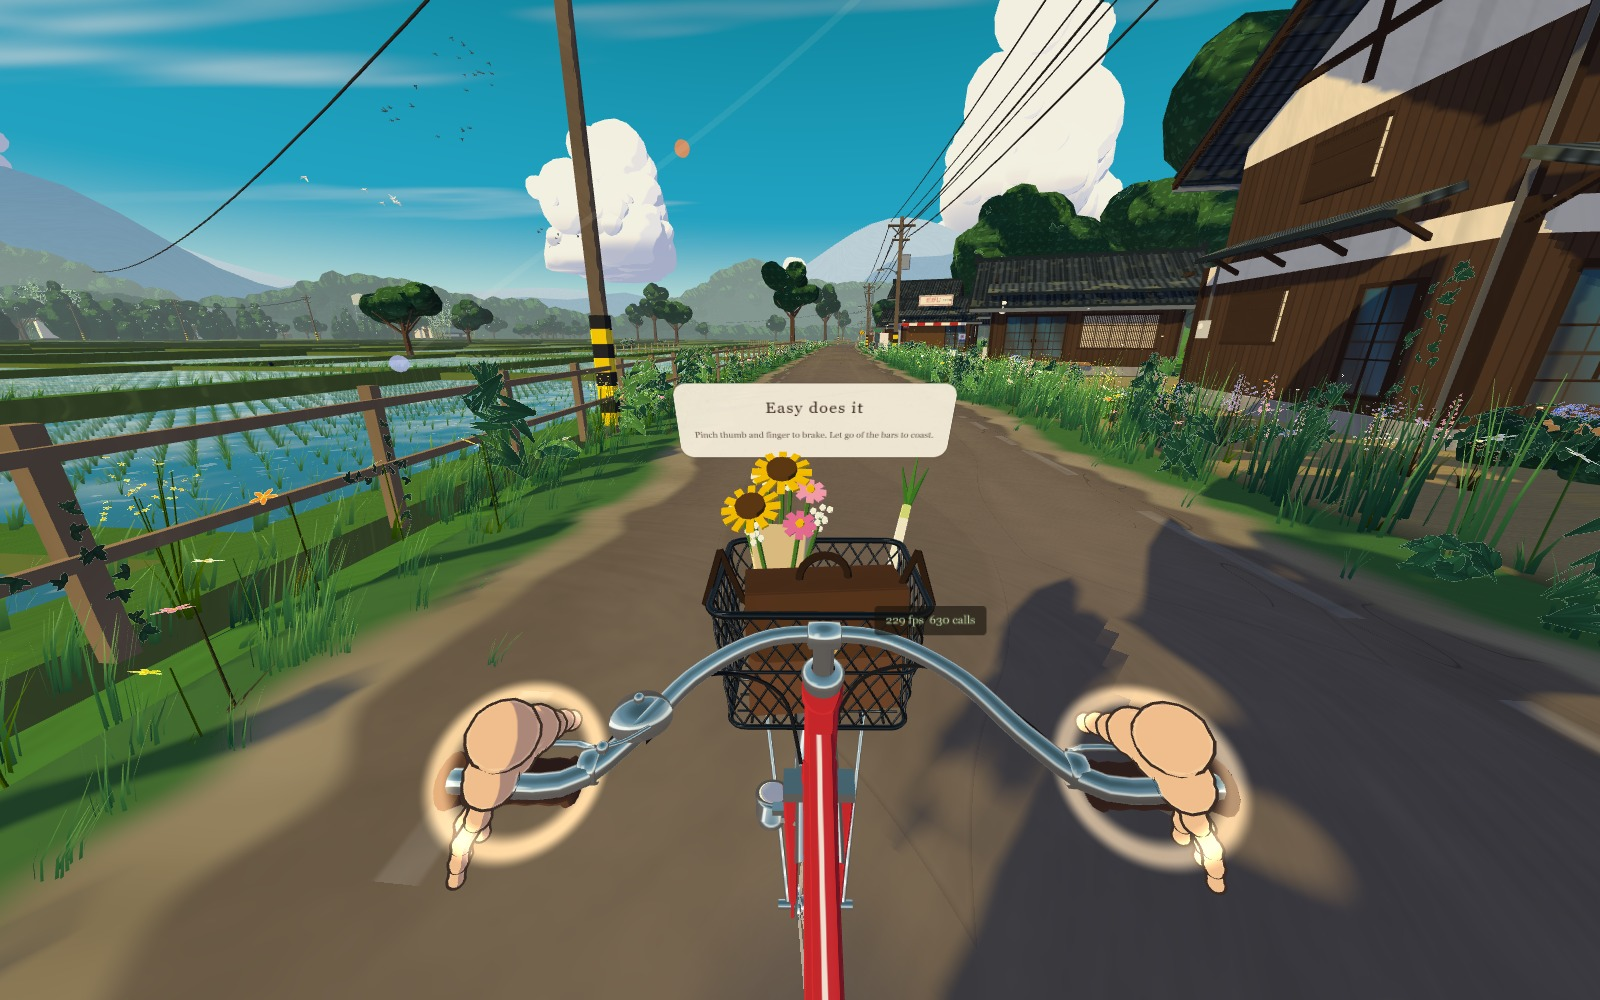
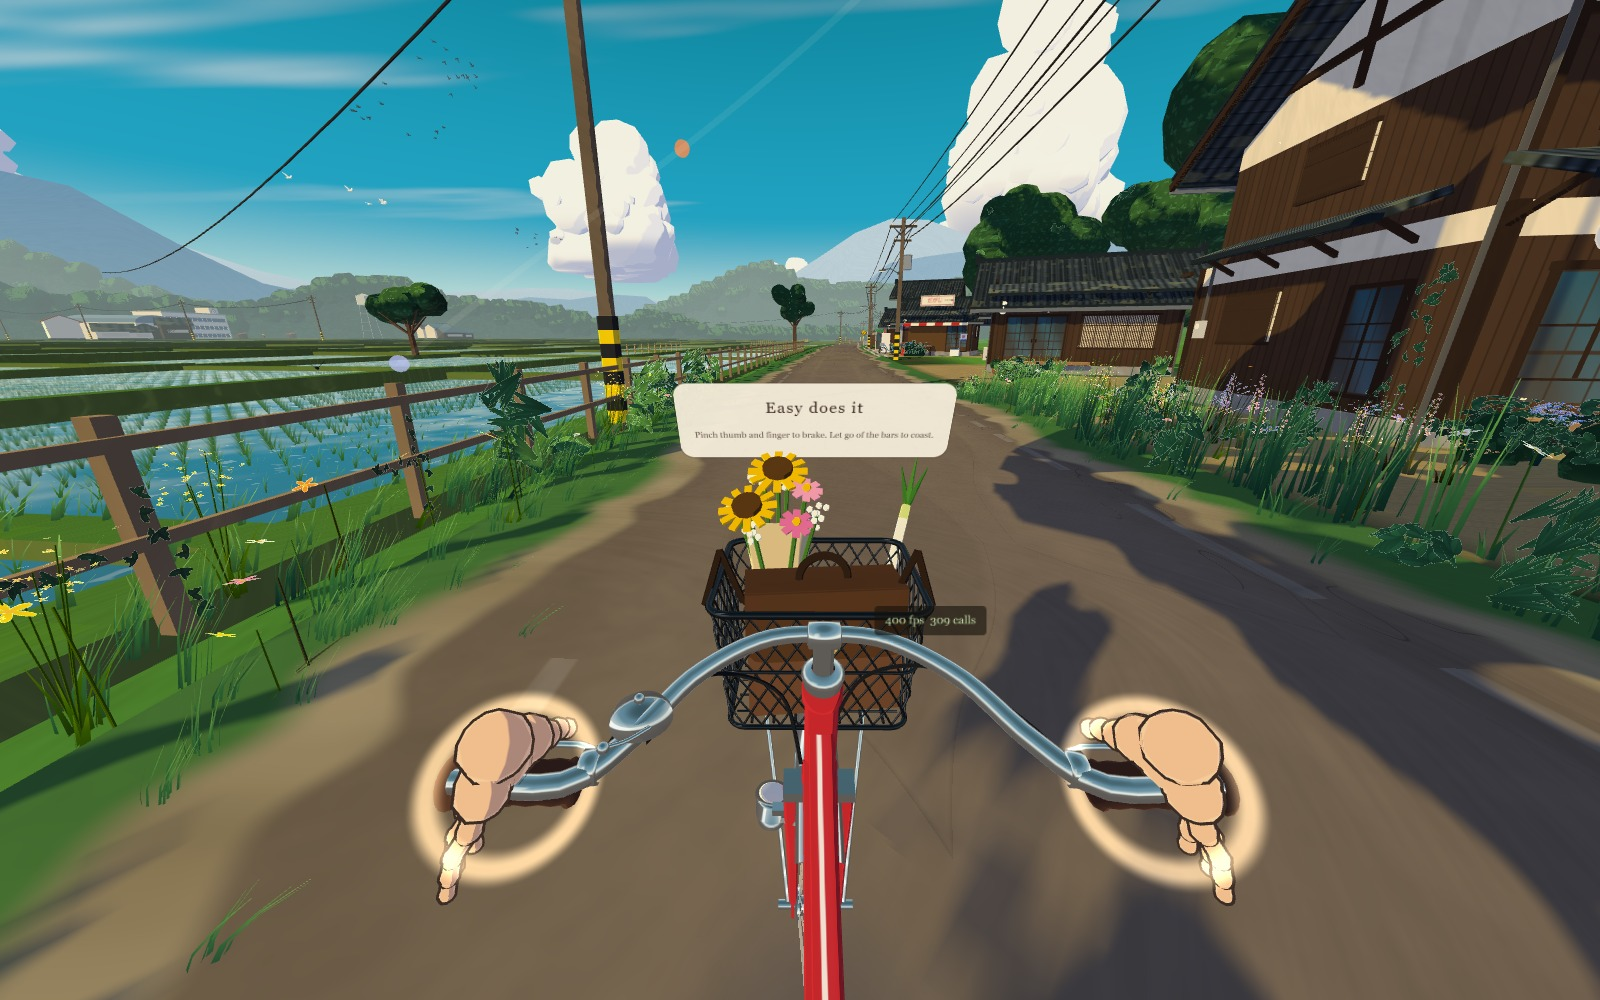
XR polish: sound on taking the bars, the sun and menu pokes; no per-frame allocations in the paused path; CHANGELOG phase 2 numbers; refreshed headset shots

diff --git a/src/xr/index.ts b/src/xr/index.ts
@@ -103,6 +103,8 @@ export class XRMode {
       { label: () => `Frame rate: ${this.fps.panel.mesh.visible ? "shown" : "hidden"}`, act: () => (this.fps.panel.mesh.visible = !this.fps.panel.mesh.visible) },
       { label: () => "Leave VR", act: () => this.session.exit() },
     ]);
+    // Sound feedback: a glass furin for menu pokes and taking the sun, a soft rattle on the bars.
+    this.menu.onPoke = () => d.audio.trigger("furin");
     this.worldGroup.add(this.menu.group);
     this.pauseCard = new Panel(0.36, 0.12, 1024, (g, w, h) => {
       washiCard(g, w, h);
@@ -176,11 +178,15 @@ export class XRMode {
     if (this.paused) {
       // Hands-only resume: a pinch anywhere (after the headset gave focus back).
       if (s.visible && (this.hands.left.pinchStart || this.hands.right.pinchStart) && !this.menu.shown) this.setPaused(false);
-      this.d.input.xr = { ...this.rideIn, ride: false, brake: 1 };
+      this.rideIn.ride = false;
+      this.rideIn.brake = 1;
+      this.d.input.xr = this.rideIn;
       return 0;
     }
     this.bars.invite = this.guide.step === "hold" ? 1 : 0;
+    const w0 = this.bars.held[0], w1 = this.bars.held[1];
     this.bars.update(dt, this.hands, this.head, t);
+    if ((this.bars.held[0] && !w0) || (this.bars.held[1] && !w1)) this.d.audio.bump(0.14);
     if (this.bars.rang) {
       this.d.rider.bike.ringBell();
       this.d.audio.ringBell();
@@ -216,7 +222,9 @@ export class XRMode {
     if (this.paused) return;
     if (this.guide.step !== "hold") this.dist += Math.max(0, ctl.speed) * dt;
     this.sun.beckon = this.guide.step === "sun" && !this.sun.grabbed ? 1 : 0;
+    const had = this.sun.grabbed;
     this.sun.update(dt, this.hands, this.head, t);
+    if (this.sun.grabbed && !had) this.d.audio.trigger("furin");
     this.guide.update(dt, { held: this.bars.heldFor, rang: this.bars.rang, sunPos: tod.pos, sunMoved: this.sun.moved, dist: this.dist, speed: ctl.speed });
     if (this.guide.arrived && this.arriveT < 0) {
       this.arriveT = 0;

diff --git a/src/xr/menu.ts b/src/xr/menu.ts
@@ -23,6 +23,8 @@ export class WristMenu {
   private flash = 0;
   private armed = true;
   shown = false;
+  /** Called on every poke (sound feedback). */
+  onPoke: () => void = () => {};
 
   constructor(private items: MenuItem[]) {
     const H = PAD * 2 + ROW * items.length + 0.02;
@@ -84,6 +86,7 @@ export class WristMenu {
         this.armed = false;
         this.flash = 0.25;
         this.items[row].act();
+        this.onPoke();
       }
       if (p.z > 0.02 || !inside) this.armed = true;
     }

diff --git a/CHANGELOG.md b/CHANGELOG.md
@@ -5,6 +5,33 @@ Summer Cycle existed before the Meta VR Start Developer Competition 2026 as a de
 during the competition window, from 27 September 2026, on the `webxr-hands` branch. It is the
 "significant update" for the Adapted / Significantly Updated Experience division.
 
+## 2026-09-27: Summer Cycle VR, phase 2 (Quest performance)
+
+Measured with `scripts/xr-probe.mjs` in the emulator at the shop row, Quest tier, per eye:
+
+| | Before | After (default) | After (`xrlite=1`) |
+|---|---|---|---|
+| Scene draw calls | 307 | 114 | 52 |
+| Sun shadow draw calls | 316 every other frame | 56 every other frame | none |
+| Triangles | 1.34M | 325k | 143k |
+
+- **Instancing proxies** (`src/xr/proxies.ts`): in the headset, every distinct plant, grass, tree
+  and rock instancing is one world-space InstancedMesh filled with only the instances around the
+  rider (z-sorted, range-searched, refilled every 0.75 m). That gives per-instance tree LOD
+  (leaf-card heroes within 16 m, lobed trees to 72 m), and grass and flowers within 17 m that
+  shrink into the ground at the edge instead of popping. Trees fade the same way at their edge.
+- The bike, basket load and bouquet (about 130 small meshes) merge into a handful on the Quest
+  tier; her shadow is dropped there (about 60 small shadow draws).
+- Lighter cumulus lobes and distant ridges on the Quest tier (they are 400 m to 2 km away).
+- No scene shader recompiles on entering VR in any tier: headset frames before the XR target is
+  bound are skipped (the lite tier was compiling 29 sRGB variants on its first frame).
+- `xrlite=1` is now a much lighter fallback: no sun shadow, smaller radii, 160 m view distance,
+  0.75 framebuffer scale.
+- Sound feedback: a soft rattle when a hand takes the bars, a glass furin chime when you take the
+  sun or poke the wrist menu.
+- Multiview (OVR_multiview2) is not available: three.js only implements it in its WebGPU renderer,
+  and this game's GLSL shader materials need the WebGL renderer.
+
 ## 2026-09-27: Summer Cycle VR, phase 1
 
 ### A seated ride in the headset

diff --git a/TASKS.md b/TASKS.md
@@ -31,7 +31,9 @@ The game is live on GitHub Pages (public repo StarKnightt/summer-cycle), the Ver
 ## VR (Meta VR Start competition, branch `webxr-hands`, see CHANGELOG.md)
 - [x] Phase 1: seated WebXR ride, hands on the bars (steer, pinch brake, bell), sun dial, wrist menu, pause/resume by hand, comfort vignette + mode, guided ride to the shrine, Quest render tier, IWER emulator captures (`scripts/xr-shots.mjs`, 14/14 checks, shots in `shots/xr/`)
 - [ ] Measure on a real Quest 3 / 3S (no headset here): fps at 72 Hz, hand grab distances, pinch-vs-grip false brakes, cold start time
-- [ ] Headset triangles: ~1.5M per eye in the emulator (trees, grass, flowers, ridges); per-instance tree LOD, lighter grass in XR
+- [x] Headset budget (phase 2): 114 calls / 325k tris per eye (lite 52 / 143k), shadow 56 calls every other frame; instancing proxies, merged bike, lighter sky
+- [ ] Cold start: warm-up draws are ~10 s of ~15 s in the emulator (ANGLE/D3D11 first-use work); measure on Quest before restructuring
+- [ ] Multiview: only in three's WebGPURenderer (would need the materials ported to TSL)
 - [ ] Headset look: cheap ink (inverted hulls on houses / poles) and a sun glow to replace the lost post chain
 - [ ] Demo video from the emulator (scripted hands), Devpost write-up
 
